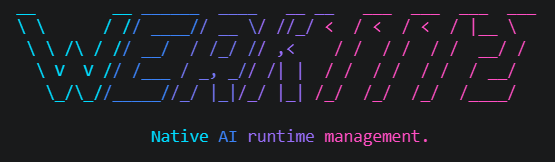
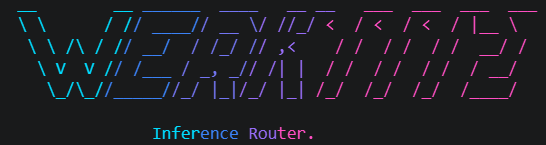
feat(): readme fix

diff --git a/src/banner.rs b/src/banner.rs
@@ -8,8 +8,7 @@ pub const BANNER: &str = concat!(
     "\x1b[38;2;0;220;255m     \\ V  V /\x1b[38;2;59;130;246m/ /___ \x1b[38;2;99;102;241m/ _, _/\x1b[38;2;139;92;246m/ /| | \x1b[38;2;255;79;195m / /  / /  / /  / __/ \x1b[0m\n",
     "\x1b[38;2;0;220;255m      \\_/\\_/\x1b[38;2;59;130;246m/_____/\x1b[38;2;99;102;241m/_/ |_|\x1b[38;2;139;92;246m/_/ |_| \x1b[38;2;255;79;195m/_/  /_/  /_/  /____/\x1b[0m\n",
     "\n",
-    "\x1b[38;2;0;220;255m                 Native \x1b[38;2;59;130;246mAI\x1b[38;2;99;102;241m \x1b[38;2;139;92;246mruntime \x1b[38;2;255;79;195mmanagement.\x1b[0m\n",
-    "\n",
+    "\x1b[38;2;0;220;255m                 Infer\x1b[38;2;59;130;246mence \x1b[38;2;99;102;241m\x1b[38;2;139;92;246mRou\x1b[38;2;255;79;195mter.\x1b[0m\n",
 );
 
 pub fn print_banner() {

diff --git a/README.md b/README.md
@@ -4,13 +4,79 @@
   <img src="docs/assets/banner_werk.png" alt="Werk1112 startup banner: WERK1112 - Native AI runtime management." />
 </p>
 
-Werk1112 is a headless local model server in the spirit of Ollama, built around a Rust-first toolchain and an OpenAI-compatible HTTP API. It is intended for external clients such as Open WebUI, LM Studio, and agent tooling.
+Werk1112 is a local-first AI runtime written in Rust.
 
-The app does not provide its own GUI chat. Use the CLI to import/list/inspect models and start the server, then connect a client to the HTTP API.
+It provides a unified inference router for modern language models through a stable CLI and an HTTP API compatible with the OpenAI API.
+
+Applications target Werk1112. 
+
+Werk1112 targets inference backends.
+
+Modern AI applications should not need to care whether a model executes through llama.cpp, vLLM, Candle, MLX, or another runtime.
+
+Werk1112 abstracts runtime selection while remaining predictable, transparent, and local-first.
+
+## Why Werk1112?
+
+Applications should depend on a stable AI runtime, not on individual inference engines.
+
+Werk1112 provides a single runtime abstraction for model management, backend selection and inference while remaining compatible with existing AI tooling.
+
+## What Werk1112 Is
+
+Werk1112 is infrastructure for running local models with predictable routing:
+
+- native CLI workflows for chat, inference, model management and serving
+- a managed model store for copied local models and pulled Hugging Face repositories
+- a runtime planner that chooses between llama.cpp server, vLLM, ONNX Runtime, Candle, and MLX based on model format and requested backend
+- an HTTP API compatible with the OpenAI API for existing tools and integrations
+- a stable runtime abstraction for local AI applications
+
+Werk1112 does not ship a built-in GUI. CLI chat is a first-class workflow, and Graphical interfaces can be provided by any client compatible with the OpenAI API.
+
+## What Werk1112 Is Not
+
+Werk1112 is intentionally narrow. It is not an agent framework, workflow engine, sandbox manager, IDE integration layer, or enterprise control plane.
+
+Werk1112 intentionally focuses on model management, runtime selection and inference. Higher-level concerns belong in applications built on top of the runtime, not inside it.
+
+## Product Scope
+
+Werk1112 is responsible for:
+
+- model import and model store management
+- model listing and inspection
+- backend and runtime selection
+- local and companion-runtime inference
+- OpenAI-compatible chat completion API
+- CLI `chat`, `run`, and `serve` workflows
+
+Werk1112 is not responsible for:
+
+- agent orchestration
+- long-running task planning
+- sandbox orchestration
+- workflow modelling
+- IDE integrations
+- enterprise management planes
+
+This narrow scope keeps the runtime predictable, composable and easy to integrate into other applications.
+
+## Design Philosophy
+
+Werk1112 deliberately separates model management, runtime selection and inference from higher-level application logic.
+
+Instead of becoming another monolithic AI platform, Werk1112 focuses on doing one job well: providing a reliable runtime abstraction for local AI workloads.
+
+The goal is to let applications depend on a stable runtime abstraction instead of coupling themselves to backend-specific inference engines.
+
+Werk1112 composes inference runtimes. It does not compete with them.
 
 ## Status
 
-This is an early V1 skeleton:
+Current capabilities include:
+
+The project focuses on stability, predictable runtime behaviour and long-term compatibility rather than rapidly expanding feature scope.
 
 - Default local installs build the recommended runtime stack for the current Windows/Linux CUDA-first workflow.
 - CUDA, CUDNN, Metal, and MKL are opt-in Cargo features for source builds.
@@ -23,7 +89,41 @@ This is an early V1 skeleton:
 - Local GGUF and safetensors model imports are copied into a managed model store.
 - Hugging Face pulls use `git clone` for now, so install `git` and `git-lfs` for real model repos.
 
-Current generation support is selected through the Werk1112 Runtime Planner. Werk is an inference router, not a Candle wrapper: GGUF uses a persistent llama.cpp `llama-server` process as the hot path, so decode, sampling, KV cache, logits, and GPU execution stay inside llama.cpp. Supported HF safetensors directories prefer vLLM on CUDA, may use vLLM ROCm through `--backend rocm`, and use Candle as the compatibility fallback. MLX model directories can run through an external `mlx-lm` backend.
+Current generation support is selected through the Werk1112 Runtime Planner. Werk1112 is an inference router, not a Candle wrapper: GGUF uses a persistent llama.cpp `llama-server` process as the hot path, so decode, sampling, KV cache, logits, and GPU execution stay inside llama.cpp. Supported HF safetensors directories prefer vLLM on CUDA, may use vLLM ROCm through `--backend rocm`, and use Candle as the compatibility fallback. MLX model directories can run through an external `mlx-lm` backend.
+
+## Quick Start
+
+Install the CLI from this checkout with the recommended runtime stack:
+
+```bash
+cargo install --path . --locked --force
+```
+
+Import or pull a model:
+
+```bash
+werk import /path/to/model-dir --name local-model
+werk pull org/model-repo --name hf-model
+```
+
+Run one prompt or start an interactive terminal chat:
+
+```bash
+werk run local-model "Write one sentence about Rust."
+werk chat local-model
+```
+
+Start the OpenAI-compatible HTTP server:
+
+```bash
+werk serve --model local-model
+```
+
+Then point compatible clients at:
+
+```text
+http://127.0.0.1:11434/v1
+```
 
 ## Format Support
 
@@ -322,49 +422,6 @@ werk --backend cuda serve --model gemma-2b-it
 
 For GGUF models, `--backend cuda`, `--backend rocm`, `--backend vulkan`, and `--backend cpu` use the matching persistent llama.cpp server backend when that server is available. For safetensors models, CUDA tries vLLM CUDA for supported architectures and then Candle CUDA; ROCm tries only vLLM ROCm and verifies the discovered vLLM environment is ROCm/HIP-capable. CPU uses Candle CPU. `--backend onnx` is strict ONNX Runtime only: it never falls back to Candle and fails with actionable diagnostics if no runner is installed. `--backend vllm` remains a strict vLLM-only route with the existing default vLLM accelerator behavior and fails clearly if vLLM is missing, broken, or cannot load the model. Explicit GPU backend requests do not silently fall back to CPU; they fail with an actionable error if the requested runtime is unavailable. `--backend candle` is available for debugging or fallback verification. `--device` remains as a Candle-only compatibility override, but `--backend` is what end users should use.
 
-## End-User Releases
-
-Release artifacts should be produced with the target Cargo alias on the target platform. A complete GGUF release includes the Cargo-built `werk` binary plus the platform llama.cpp server companion that Werk discovers or bundles for that artifact. End users should not need Rust, Cargo, Visual Studio, CMake, Git, libclang, or `nvcc`; those are build-machine/source-install requirements only.
-
-Do not ship one artifact per backend unless a backend cannot be co-compiled. The current Windows/Linux release artifact is CUDA-first for the supported server/Candle paths. Legacy in-process llama.cpp FFI CUDA/Vulkan builds are debug/developer features, not the normal GGUF route.
-
-Each target artifact should include the supported backends for that build, and users can select one explicitly with `--backend`:
-
-| Platform | Cargo command | Included backend support | Auto default |
-| --- | --- | --- | --- |
-| Windows 10/11 x64 | `cargo build-windows` | CPU, CUDA via llama.cpp server, Candle CUDA | llama.cpp server CUDA for GGUF; vLLM/Candle for safetensors |
-| Linux x64 | `cargo build-linux` | CPU, CUDA via llama.cpp server, Candle CUDA | llama.cpp server CUDA for GGUF; vLLM/Candle for safetensors |
-| macOS Apple Silicon | `cargo build-macos-apple-silicon` | CPU, MLX-LM, VLM request support | MLX |
-
-Backend selection is per process. Managed runtime provisioning and generated artifacts are cached under `WERK_HOME` when needed.
-
-```bash
-werk --backend auto chat model-id
-werk --backend cuda chat model-id
-werk --backend rocm chat model-id
-werk --backend vulkan chat model-id
-werk --backend mlx chat model-id
-werk --backend metal chat model-id
-werk --backend cpu chat model-id
-werk --backend candle chat model-id
-werk --backend onnx chat model-id
-werk --backend vllm chat model-id
-```
-
-`auto` is format-aware: GGUF uses llama.cpp server CUDA, ROCm only when discoverable, Vulkan, CPU, then Candle legacy GPU/CPU fallback; safetensors uses vLLM for supported CUDA architectures, then Candle CUDA/CPU fallback; MLX-format models use MLX. Explicit `onnx`, `vllm`, and GPU requests do not fallback to CPU. `--backend rocm` is strict ROCm/HIP for compatible formats.
-
-MLX and Metal are not the same backend. Metal is implemented through Candle. MLX is implemented as an external `mlx-lm` backend. CUDA, Vulkan, and CPU GGUF hot paths are implemented through persistent llama.cpp server backends. `WERK_MLX_PYTHON` can point to a Python environment with `mlx-lm` installed.
-
-VLM support means multimodal model/request support, not a separate backend. Today image inputs should be routed to an image-capable MLX/VLM backend. Candle is text-only, and llama.cpp VLM support is pending until mmproj/image argument handling is wired.
-
-CLI image inputs use repeatable `--image` flags:
-
-```bash
-werk --backend mlx chat vlm-model --image ./image.png
-```
-
-OpenAI-style API image inputs are accepted from `image_url` and `input_image` content parts. Text-only backends return a clear error when image inputs are provided.
-
 ## Model Store
 
 The model store is resolved in this order:
@@ -429,7 +486,7 @@ Start the server:
 werk serve
 ```
 
-`serve` starts the OpenAI-compatible API. It exposes all installed models through `/v1/models`; each API request normally chooses the model with its JSON `model` field.
+`serve` starts the OpenAI API compatible API. It exposes all installed models through `/v1/models`; each API request normally chooses the model with its JSON `model` field.
 
 Set a default model for requests that omit `model`:
 
@@ -534,7 +591,7 @@ Terminal chat prints decoded token-pieces as soon as the backend produces them, 
 werk chat gemma-2b-it --stream-granularity chunk
 ```
 
-Timing and throughput stats are quiet by default. Add `--verbose` to `run` or `chat` for Ollama-style stats:
+Timing and throughput stats are quiet by default. Add `--verbose` to `run` or `chat` for runtime timing stats:
 
 ```bash
 werk chat TinyLlama-1B-GGUF --max-tokens 128 --verbose
@@ -555,7 +612,7 @@ eval rate:            86.81 tokens/s
 
 `prompt eval` is prompt/prefill time. `eval` is assistant-token decode time. `total` also includes model load and tokenizer overhead for that turn. For TinyLlama GGUF on a CUDA build, use `Q4_K_M` as the default balance of speed and quality; `Q2_K` is smaller but noticeably worse, and larger quants can be slower.
 
-The CLI chat is only a terminal workflow. The project still does not ship a GUI; external tools should use the HTTP API.
+CLI chat is a first-class workflow. The HTTP API allows existing OpenAI API compatible applications to integrate with Werk1112 without additional adapters.
 
 ## OpenAI-Compatible API
 
@@ -614,6 +671,49 @@ data: [DONE]
 ```
 
 Text deltas are intentionally chunked. They are not one event per token.
+
+## End-User Releases
+
+Release artifacts should be produced with the target Cargo alias on the target platform. A complete GGUF release includes the Cargo-built `werk` binary plus the platform llama.cpp server companion that Werk discovers or bundles for that artifact. End users should not need Rust, Cargo, Visual Studio, CMake, Git, libclang, or `nvcc`; those are build-machine/source-install requirements only.
+
+Do not ship one artifact per backend unless a backend cannot be co-compiled. The current Windows/Linux release artifact is CUDA-first for the supported server/Candle paths. Legacy in-process llama.cpp FFI CUDA/Vulkan builds are debug/developer features, not the normal GGUF route.
+
+Each target artifact should include the supported backends for that build, and users can select one explicitly with `--backend`:
+
+| Platform | Cargo command | Included backend support | Auto default |
+| --- | --- | --- | --- |
+| Windows 10/11 x64 | `cargo build-windows` | CPU, CUDA via llama.cpp server, Candle CUDA | llama.cpp server CUDA for GGUF; vLLM/Candle for safetensors |
+| Linux x64 | `cargo build-linux` | CPU, CUDA via llama.cpp server, Candle CUDA | llama.cpp server CUDA for GGUF; vLLM/Candle for safetensors |
+| macOS Apple Silicon | `cargo build-macos-apple-silicon` | CPU, MLX-LM, VLM request support | MLX |
+
+Backend selection is per process. Managed runtime provisioning and generated artifacts are cached under `WERK_HOME` when needed.
+
+```bash
+werk --backend auto chat model-id
+werk --backend cuda chat model-id
+werk --backend rocm chat model-id
+werk --backend vulkan chat model-id
+werk --backend mlx chat model-id
+werk --backend metal chat model-id
+werk --backend cpu chat model-id
+werk --backend candle chat model-id
+werk --backend onnx chat model-id
+werk --backend vllm chat model-id
+```
+
+`auto` is format-aware: GGUF uses llama.cpp server CUDA, ROCm only when discoverable, Vulkan, CPU, then Candle legacy GPU/CPU fallback; safetensors uses vLLM for supported CUDA architectures, then Candle CUDA/CPU fallback; MLX-format models use MLX. Explicit `onnx`, `vllm`, and GPU requests do not fallback to CPU. `--backend rocm` is strict ROCm/HIP for compatible formats.
+
+MLX and Metal are not the same backend. Metal is implemented through Candle. MLX is implemented as an external `mlx-lm` backend. CUDA, Vulkan, and CPU GGUF hot paths are implemented through persistent llama.cpp server backends. `WERK_MLX_PYTHON` can point to a Python environment with `mlx-lm` installed.
+
+VLM support means multimodal model/request support, not a separate backend. Today image inputs should be routed to an image-capable MLX/VLM backend. Candle is text-only, and llama.cpp VLM support is pending until mmproj/image argument handling is wired.
+
+CLI image inputs use repeatable `--image` flags:
+
+```bash
+werk --backend mlx chat vlm-model --image ./image.png
+```
+
+OpenAI-style API image inputs are accepted from `image_url` and `input_image` content parts. Text-only backends return a clear error when image inputs are provided.
 
 ## Next Work
 